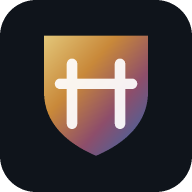
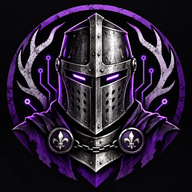
New BuhurtOS crest and wordmark everywhere the old shield appeared
The brand masters supplied by the owner (crest, wordmark lockup, square and
round badges, banner) live in public/brand/. Everything else is derived from
them by scripts/makeIcons.py: the installable-app icons, the maskable icon,
the Apple touch icon, two PNG favicons, the 1200x630 share image and the small
webp files the header uses.

Header: the crest + BuhurtOS lockup replaces the inline gradient shield and
text; signed in on a narrow phone the crest alone stays, as before.
Page: PNG favicons, Open Graph and Twitter share tags with the share image.
Manifest: the SVG icon entry is gone with the old SVGs. The service worker
precache list carries the new files. The old hand-written shield SVGs and the
software-rasterizer icon script are removed.

Verified: typecheck clean, 1503 unit tests pass, production build, and the
built app in Chromium at 390 px (dark, light, signed-in) and 1280 px.

Claude-Session: https://claude.ai/code/session_01PhsHLHDwySAgkbk5BW7ujx

diff --git a/index.html b/index.html
@@ -6,9 +6,21 @@
   <meta name="theme-color" content="#0F141B">
   <meta name="description" content="BuhurtOS: events, brackets, teams and rules for armored combat.">
   <title>BuhurtOS</title>
-  <link rel="icon" type="image/svg+xml" href="%BASE_URL%favicon.svg">
+  <link rel="icon" type="image/png" sizes="48x48" href="%BASE_URL%favicon-48.png">
+  <link rel="icon" type="image/png" sizes="32x32" href="%BASE_URL%favicon-32.png">
+  <link rel="icon" type="image/png" sizes="192x192" href="%BASE_URL%icon-192.png">
   <link rel="manifest" href="%BASE_URL%manifest.webmanifest">
-  <link rel="apple-touch-icon" href="%BASE_URL%apple-touch-icon.png">
+  <link rel="apple-touch-icon" sizes="180x180" href="%BASE_URL%apple-touch-icon.png">
+  <meta property="og:type" content="website">
+  <meta property="og:site_name" content="BuhurtOS">
+  <meta property="og:title" content="BuhurtOS">
+  <meta property="og:description" content="Events, brackets, live scores, teams, fighters and rules for armored combat.">
+  <meta property="og:image" content="https://buhurt-os.vercel.app/og-default.png">
+  <meta property="og:image:width" content="1200">
+  <meta property="og:image:height" content="630">
+  <meta property="og:image:alt" content="BuhurtOS crest">
+  <meta name="twitter:card" content="summary_large_image">
+  <meta name="twitter:image" content="https://buhurt-os.vercel.app/og-default.png">
   <meta name="mobile-web-app-capable" content="yes">
   <meta name="apple-mobile-web-app-capable" content="yes">
   <meta name="apple-mobile-web-app-title" content="BuhurtOS">

diff --git a/src/styles/app.css b/src/styles/app.css
@@ -49,7 +49,8 @@ h1,h2,h3{overflow-wrap:anywhere}
 .top .wrap{display:flex;align-items:center;gap:20px;height:64px}
 .brand{min-width:0;display:flex;align-items:center;gap:10px;font:900 24px/1 var(--f-display);letter-spacing:.02em;text-transform:uppercase}
 .brand .os{color:var(--steel)}
-.mark{width:30px;height:34px;flex:none}
+.mark{height:40px;width:auto;flex:none;display:block}
+.brand .mark-crest{display:none}
 .nav{display:flex;gap:4px;min-width:0}
 .top .brand{flex:none}
 .nav a{flex:none}
@@ -761,8 +762,8 @@ button.acct-row{width:100%;background:none;border-width:0;font:inherit;text-alig
   .bottom button.active svg{color:var(--steel)}
   .theme-btn{display:none}
 }
-/* Signed in on a narrow phone, the bell and Account need the room: keep the shield, drop the word. */
-@media (max-width:430px){.top.signed .brand>span{display:none}}
+/* Signed in on a narrow phone, the bell and Account need the room: keep the crest, drop the word. */
+@media (max-width:430px){.top.signed .brand .mark-word{display:none}.top.signed .brand .mark-crest{display:block}}
 .more-list{display:grid}
 .more-list a,.more-list button{display:flex;align-items:center;gap:14px;min-height:52px;padding:0 4px;border-bottom:1px solid var(--line);font:600 16px var(--f-body);color:var(--ink);background:none;border-left:0;border-right:0;border-top:0;text-align:left;cursor:pointer}
 .more-list a svg,.more-list button svg{width:22px;height:22px;flex:none;color:var(--muted)}

diff --git a/src/components/Layout.tsx b/src/components/Layout.tsx
@@ -72,8 +72,9 @@ export function Layout() {
       <header className={`top${session ? ' signed' : ''}`}>
         <div className="wrap">
           <NavLink className="brand" to="/" aria-label="BuhurtOS home">
-            <svg className="mark" viewBox="0 0 30 34" aria-hidden="true"><defs><linearGradient id="mk" x1="0" y1="0" x2="1" y2="1"><stop offset="0" stopColor="#E3C77A" /><stop offset=".35" stopColor="#C9893A" /><stop offset=".65" stopColor="#8E4E6B" /><stop offset="1" stopColor="#2C6BB0" /></linearGradient></defs><path d="M2 2h26v14c0 8-6 13-13 16C8 29 2 24 2 16Z" fill="url(#mk)" /><path d="M9 9v15M21 9v15M6 14h18" stroke="#fff" strokeWidth="2.6" strokeLinecap="round" opacity=".92" /></svg>
-            <span>Buhurt<span className="os">OS</span></span>
+            {/* The crest alone where the bar is tight (signed in on a narrow phone), the full lockup everywhere else. */}
+            <img className="mark mark-crest" src={`${import.meta.env.BASE_URL ?? '/'}brand/crest.webp`} alt="" width="40" height="40" decoding="async" />
+            <img className="mark mark-word" src={`${import.meta.env.BASE_URL ?? '/'}brand/wordmark.webp`} alt="BuhurtOS" width="120" height="40" decoding="async" />
           </NavLink>
           <nav className="nav" aria-label="Main">
             {NAV.map((n, i) => <NavLink key={n.to} to={n.to} end={n.end} className={i >= 5 ? 'nav-extra' : undefined}>{n.label}</NavLink>)}

diff --git a/scripts/swPrecachePlugin.ts b/scripts/swPrecachePlugin.ts
@@ -16,7 +16,7 @@ export function swPrecachePlugin(): Plugin {
       const assets = path.join(dir, 'assets');
       if (!fs.existsSync(swPath) || !fs.existsSync(assets)) return;
       const list = fs.readdirSync(assets).filter(f => /\.(js|css)$/.test(f)).sort().map(f => `assets/${f}`);
-      list.push('favicon.svg', 'manifest.webmanifest', 'icon-192.png', 'icon-512.png', 'icon-maskable-512.png', 'apple-touch-icon.png', 'icon-any.svg');
+      list.push('favicon-48.png', 'favicon-32.png', 'manifest.webmanifest', 'icon-192.png', 'icon-512.png', 'icon-maskable-512.png', 'apple-touch-icon.png', 'brand/wordmark.webp', 'brand/crest.webp');
       const id = createHash('sha256').update(list.join('|')).digest('hex').slice(0, 10);
       const src = fs.readFileSync(swPath, 'utf8')
         .replace('const PRECACHE = [];', `const PRECACHE = ${JSON.stringify(list)};`)

diff --git a/scripts/makeIcons.py b/scripts/makeIcons.py
@@ -1,0 +1,52 @@
+#!/usr/bin/env python3
+"""Derive every icon and share image from the brand masters in public/brand/ (needs Pillow: pip install pillow).
+
+Run: python3 scripts/makeIcons.py
+Masters (the source of truth, supplied by the owner, 2026-10-26):
+  public/brand/crest.png        the shield crest alone, transparent
+  public/brand/wordmark.png     crest + "BuhurtOS" lockup, transparent (the header logo)
+  public/brand/badge.png        square badge with the wordmark, on black
+  public/brand/badge-round.png  round badge, on black (the app icon)
+  public/brand/banner.png       wide banner (the share image)
+Outputs: icon-192.png, icon-512.png, icon-maskable-512.png, apple-touch-icon.png, favicon-48.png, favicon-32.png,
+         og-default.png (1200x630), brand/crest.webp, brand/wordmark.webp.
+"""
+from pathlib import Path
+from PIL import Image
+
+PUB = Path(__file__).resolve().parent.parent / 'public'
+BRAND = PUB / 'brand'
+BLACK = (6, 5, 5)
+
+def fit(im, size):
+    im = im.copy(); im.thumbnail((size, size), Image.LANCZOS); return im
+
+crest = Image.open(BRAND / 'crest.png').convert('RGBA')
+wordmark = Image.open(BRAND / 'wordmark.png').convert('RGBA')
+badge = Image.open(BRAND / 'badge-round.png').convert('RGB')
+banner = Image.open(BRAND / 'banner.png').convert('RGB')
+
+# App icons: the round badge is already full-bleed on black.
+for name, size in (('icon-192.png', 192), ('icon-512.png', 512), ('apple-touch-icon.png', 180)):
+    fit(badge, size).save(PUB / name, optimize=True)
+
+# Maskable: Android may crop to a circle of 80% of the width, so keep the badge inside that safe zone.
+m = Image.new('RGB', (512, 512), BLACK)
+inner = fit(badge, 410)
+m.paste(inner, ((512 - inner.width) // 2, (512 - inner.height) // 2))
+m.save(PUB / 'icon-maskable-512.png', optimize=True)
+
+# Favicons: the crest alone reads best at tab size.
+for name, size in (('favicon-48.png', 48), ('favicon-32.png', 32)):
+    fit(crest, size).save(PUB / name, optimize=True)
+
+# Share image 1200x630: the banner scaled to height, centred.
+scale = 630 / banner.height
+b = banner.resize((round(banner.width * scale), 630), Image.LANCZOS)
+left = (b.width - 1200) // 2
+b.crop((left, 0, left + 1200, 630)).save(PUB / 'og-default.png', optimize=True)
+
+# Header assets (small, lossy, transparent).
+fit(crest, 512).save(BRAND / 'crest.webp', quality=90, method=6)
+w = wordmark.copy(); w.thumbnail((900, 900), Image.LANCZOS); w.save(BRAND / 'wordmark.webp', quality=90, method=6)
+print('wrote icons, favicons, og-default.png and brand webp files')
